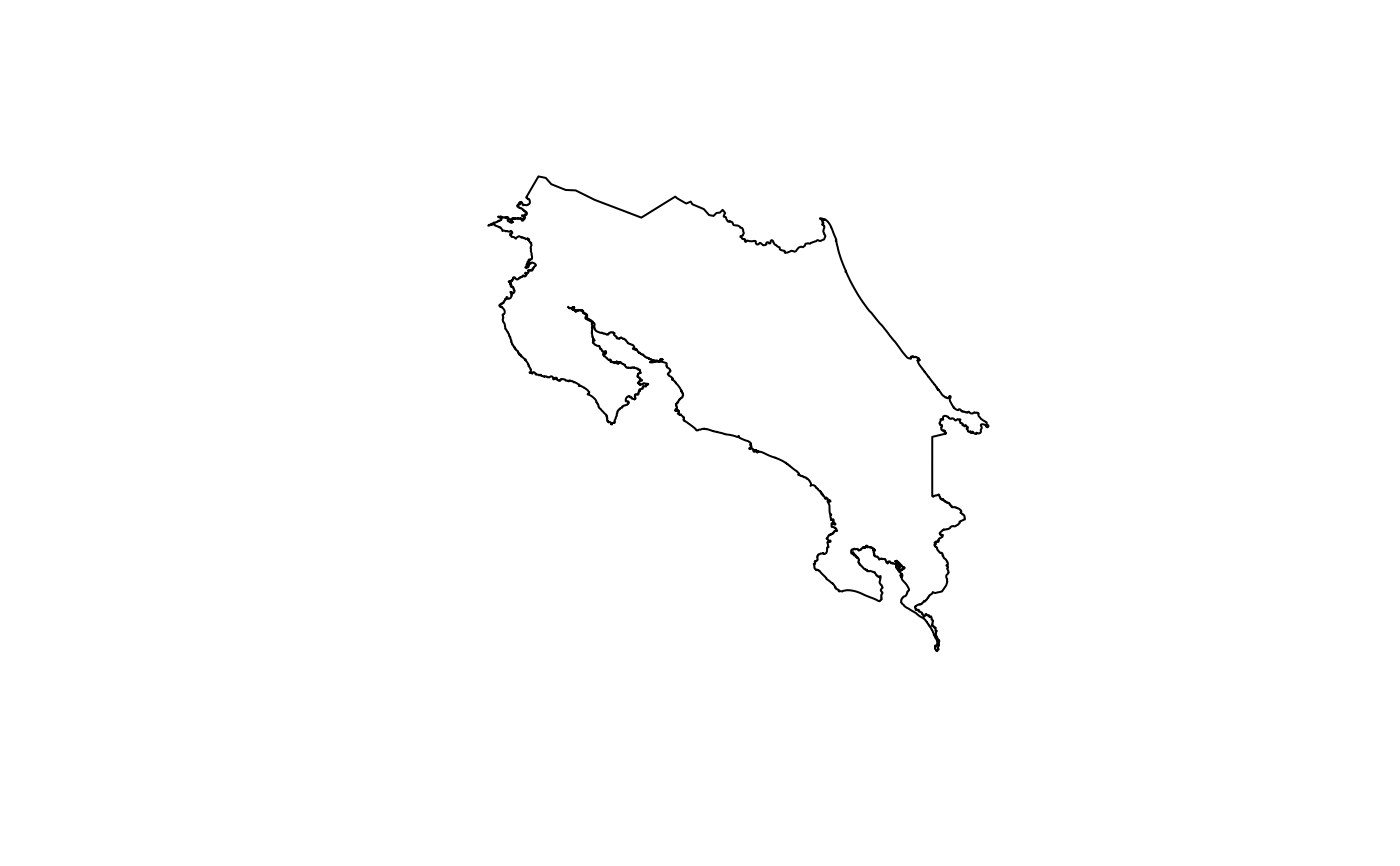
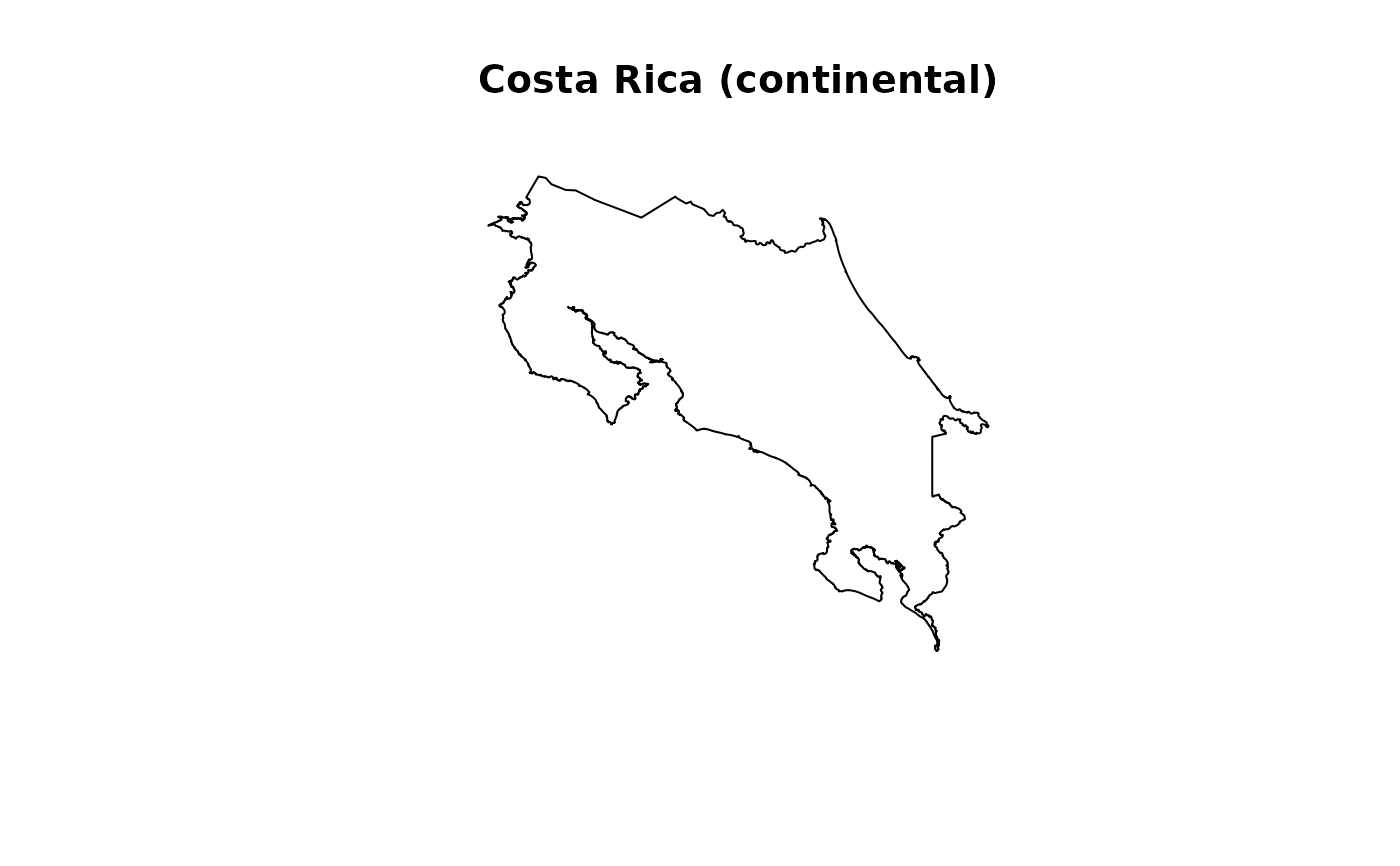
Deploying to gh-pages from @ ManuelSpinola/h3sdm@3c886d8b5e3df9cee0a471d59db960e2a45d29d4 🚀

Changed region(s): [[0.3379, 0.0624, 0.7064, 0.1247]]

diff --git a/reference/cr_outline.html b/reference/cr_outline.html
@@ -1,0 +1,137 @@
+<!DOCTYPE html>
+<!-- Generated by pkgdown: do not edit by hand --><html lang="en"><head><meta http-equiv="Content-Type" content="text/html; charset=UTF-8"><meta charset="utf-8"><meta http-equiv="X-UA-Compatible" content="IE=edge"><meta name="viewport" content="width=device-width, initial-scale=1, shrink-to-fit=no"><title>Costa Rica Full Outline (Continental + Islands) — cr_outline • h3sdm</title><script src="../deps/jquery-3.6.0/jquery-3.6.0.min.js"></script><meta name="viewport" content="width=device-width, initial-scale=1, shrink-to-fit=no"><link href="../deps/bootstrap-5.3.8/bootstrap.min.css" rel="stylesheet"><script src="../deps/bootstrap-5.3.8/bootstrap.bundle.min.js"></script><link href="../deps/Source_Sans_Pro-0.4.10/font.css" rel="stylesheet"><link href="../deps/Source_Code_Pro-0.4.10/font.css" rel="stylesheet"><link href="../deps/font-awesome-6.5.2/css/all.min.css" rel="stylesheet"><link href="../deps/font-awesome-6.5.2/css/v4-shims.min.css" rel="stylesheet"><script src="../deps/headroom-0.11.0/headroom.min.js"></script><script src="../deps/headroom-0.11.0/jQuery.headroom.min.js"></script><script src="../deps/bootstrap-toc-1.0.1/bootstrap-toc.min.js"></script><script src="../deps/clipboard.js-2.0.11/clipboard.min.js"></script><script src="../deps/search-1.0.0/autocomplete.jquery.min.js"></script><script src="../deps/search-1.0.0/fuse.min.js"></script><script src="../deps/search-1.0.0/mark.min.js"></script><!-- pkgdown --><script src="../pkgdown.js"></script><meta property="og:title" content="Costa Rica Full Outline (Continental + Islands) — cr_outline"><meta name="description" content="An sf multipolygon containing the full outline of Costa Rica,
+derived from GADM 4.1. Includes the continental landmass, the Isla del
+Coco (~550 km offshore in the Pacific Ocean), and all other minor
+oceanic islands.
+For the continental outline only (without islands), see
+cr_outline_c."><meta property="og:description" content="An sf multipolygon containing the full outline of Costa Rica,
+derived from GADM 4.1. Includes the continental landmass, the Isla del
+Coco (~550 km offshore in the Pacific Ocean), and all other minor
+oceanic islands.
+For the continental outline only (without islands), see
+cr_outline_c."></head><body>
+    <a href="#container" class="visually-hidden-focusable">Skip to content</a>
+
+
+    <nav class="navbar navbar-expand-lg fixed-top bg-none" data-bs-theme="light" aria-label="Site navigation"><div class="container">
+
+    <a class="navbar-brand me-2" href="../index.html">h3sdm</a>
+
+    <small class="nav-text text-muted me-auto" data-bs-toggle="tooltip" data-bs-placement="bottom" title="">0.1.5</small>
+
+
+    <button class="navbar-toggler" type="button" data-bs-toggle="collapse" data-bs-target="#navbar" aria-controls="navbar" aria-expanded="false" aria-label="Toggle navigation">
+      <span class="navbar-toggler-icon"></span>
+    </button>
+
+    <div id="navbar" class="collapse navbar-collapse ms-3">
+      <ul class="navbar-nav me-auto"><li class="nav-item"><a class="nav-link" href="../articles/h3sdm.html">Get started</a></li>
+<li class="active nav-item"><a class="nav-link" href="../reference/index.html">Reference</a></li>
+<li class="nav-item dropdown">
+  <button class="nav-link dropdown-toggle" type="button" id="dropdown-articles" data-bs-toggle="dropdown" aria-expanded="false" aria-haspopup="true">Articles</button>
+  <ul class="dropdown-menu" aria-labelledby="dropdown-articles"><li><a class="dropdown-item" href="../articles/multi_model_workflow.html">h3sdm workflow for multiple models</a></li>
+  </ul></li>
+<li class="nav-item"><a class="nav-link" href="../news/index.html">Changelog</a></li>
+      </ul><ul class="navbar-nav"><li class="nav-item"><form class="form-inline" role="search">
+ <input class="form-control" type="search" name="search-input" id="search-input" autocomplete="off" aria-label="Search site" placeholder="Search for" data-search-index="../search.json"></form></li>
+<li class="nav-item"><a class="external-link nav-link" href="https://github.com/ManuelSpinola/h3sdm/" aria-label="GitHub"><span class="fa fab fa-github fa-lg"></span></a></li>
+      </ul></div>
+
+
+  </div>
+</nav><div class="container template-reference-topic" id="container">
+<div class="row">
+  <main id="main" class="col-md-9"><div class="page-header">
+
+      <h1>Costa Rica Full Outline (Continental + Islands)</h1>
+      <small class="dont-index">Source: <a href="https://github.com/ManuelSpinola/h3sdm/blob/main/R/data-doc.R" class="external-link"><code>R/data-doc.R</code></a></small>
+      <div class="d-none name"><code>cr_outline.Rd</code></div>
+    </div>
+
+    <div class="ref-description section level2">
+    <p>An <code>sf</code> multipolygon containing the full outline of Costa Rica,
+derived from GADM 4.1. Includes the continental landmass, the Isla del
+Coco (~550 km offshore in the Pacific Ocean), and all other minor
+oceanic islands.</p>
+<p>For the continental outline only (without islands), see
+<code><a href="cr_outline_c.html">cr_outline_c</a></code>.</p>
+    </div>
+
+    <div class="section level2">
+    <h2 id="ref-usage">Usage<a class="anchor" aria-label="anchor" href="#ref-usage"></a></h2>
+    <div class="sourceCode"><pre class="sourceCode r"><code><span><span class="va">cr_outline</span></span></code></pre></div>
+    </div>
+
+    <div class="section level2">
+    <h2 id="format">Format<a class="anchor" aria-label="anchor" href="#format"></a></h2>
+    <p>An <code>sf</code> object with 1 feature and 1 column:</p><dl><dt>geometry</dt>
+<dd><p>MULTIPOLYGON in WGS 84 (EPSG:4326) representing the
+full national territory of Costa Rica including all islands.</p></dd>
+
+
+</dl></div>
+    <div class="section level2">
+    <h2 id="source">Source<a class="anchor" aria-label="anchor" href="#source"></a></h2>
+    <p>Global Administrative Areas (GADM) version 4.1.
+Downloaded via <code>geodata::gadm("CRI", level = 0)</code>.
+<a href="https://gadm.org" class="external-link">https://gadm.org</a></p>
+    </div>
+    <div class="section level2">
+    <h2 id="details">Details<a class="anchor" aria-label="anchor" href="#details"></a></h2>
+
+<div class="section">
+<h3 id="when-to-use-this-vs-cr-outline-c">When to use this vs cr_outline_c<a class="anchor" aria-label="anchor" href="#when-to-use-this-vs-cr-outline-c"></a></h3>
+
+
+<p>Use <code>cr_outline</code> when your analysis requires the full national
+territory. Use <code><a href="cr_outline_c.html">cr_outline_c</a></code> for mainland ecological
+analyses where oceanic islands would distort results (species distribution
+models, landscape metrics, climate extraction).</p>
+</div>
+
+<div class="section">
+<h3 id="reproducibility">Reproducibility<a class="anchor" aria-label="anchor" href="#reproducibility"></a></h3>
+
+
+<p>Generated with <code>data-raw/cr_outline.R</code>. To regenerate:</p><div class="sourceCode"><pre><code><span><span class="kw"><a href="https://rdrr.io/r/base/source.html" class="external-link">source</a></span><span class="op">(</span><span class="st">"data-raw/cr_outline.R"</span><span class="op">)</span></span></code></pre></div>
+
+</div>
+
+    </div>
+    <div class="section level2">
+    <h2 id="see-also">See also<a class="anchor" aria-label="anchor" href="#see-also"></a></h2>
+    <div class="dont-index">
+<ul><li><p><code><a href="cr_outline_c.html">cr_outline_c</a></code> – continental outline only (no islands).</p></li>
+</ul></div>
+    </div>
+
+    <div class="section level2">
+    <h2 id="ref-examples">Examples<a class="anchor" aria-label="anchor" href="#ref-examples"></a></h2>
+    <div class="sourceCode"><pre class="sourceCode r"><code><span class="r-in"><span><span class="fu"><a href="https://rdrr.io/r/utils/data.html" class="external-link">data</a></span><span class="op">(</span><span class="va">cr_outline</span><span class="op">)</span></span></span>
+<span class="r-in"><span><span class="fu"><a href="https://rspatial.github.io/terra/reference/plot.html" class="external-link">plot</a></span><span class="op">(</span><span class="fu">sf</span><span class="fu">::</span><span class="fu"><a href="https://r-spatial.github.io/sf/reference/st_geometry.html" class="external-link">st_geometry</a></span><span class="op">(</span><span class="va">cr_outline</span><span class="op">)</span>, main <span class="op">=</span> <span class="st">"Costa Rica (full territory)"</span><span class="op">)</span></span></span>
+<span class="r-plt img"><img src="cr_outline-1.png" alt="" width="700" height="433"></span>
+<span class="r-in"><span></span></span>
+<span class="r-in"><span><span class="kw">if</span> <span class="op">(</span><span class="cn">FALSE</span><span class="op">)</span> <span class="op">{</span> <span class="co"># \dontrun{</span></span></span>
+<span class="r-in"><span><span class="co"># Compare continental vs full</span></span></span>
+<span class="r-in"><span><span class="fu"><a href="https://rdrr.io/r/graphics/par.html" class="external-link">par</a></span><span class="op">(</span>mfrow <span class="op">=</span> <span class="fu"><a href="https://rdrr.io/r/base/c.html" class="external-link">c</a></span><span class="op">(</span><span class="fl">1</span>, <span class="fl">2</span><span class="op">)</span><span class="op">)</span></span></span>
+<span class="r-in"><span><span class="fu"><a href="https://rspatial.github.io/terra/reference/plot.html" class="external-link">plot</a></span><span class="op">(</span><span class="fu">sf</span><span class="fu">::</span><span class="fu"><a href="https://r-spatial.github.io/sf/reference/st_geometry.html" class="external-link">st_geometry</a></span><span class="op">(</span><span class="va">cr_outline_c</span><span class="op">)</span>, main <span class="op">=</span> <span class="st">"Continental"</span><span class="op">)</span></span></span>
+<span class="r-in"><span><span class="fu"><a href="https://rspatial.github.io/terra/reference/plot.html" class="external-link">plot</a></span><span class="op">(</span><span class="fu">sf</span><span class="fu">::</span><span class="fu"><a href="https://r-spatial.github.io/sf/reference/st_geometry.html" class="external-link">st_geometry</a></span><span class="op">(</span><span class="va">cr_outline</span><span class="op">)</span>,   main <span class="op">=</span> <span class="st">"Full territory"</span><span class="op">)</span></span></span>
+<span class="r-in"><span><span class="op">}</span> <span class="co"># }</span></span></span>
+</code></pre></div>
+    </div>
+  </main><aside class="col-md-3"><nav id="toc" aria-label="Table of contents"><h2>On this page</h2>
+    </nav></aside></div>
+
+
+   </div>
+  <footer><div class="container">
+  <div class="pkgdown-footer-left">
+  <p>Developed by Manuel Spínola.</p>
+</div>
+
+<div class="pkgdown-footer-right">
+  <p>Site built with <a href="https://pkgdown.r-lib.org/" class="external-link">pkgdown</a> 2.2.0.</p>
+</div>
+
+  </div></footer></body></html>
+

diff --git a/reference/cr_outline_c.html b/reference/cr_outline_c.html
@@ -1,5 +1,13 @@
 <!DOCTYPE html>
-<!-- Generated by pkgdown: do not edit by hand --><html lang="en"><head><meta http-equiv="Content-Type" content="text/html; charset=UTF-8"><meta charset="utf-8"><meta http-equiv="X-UA-Compatible" content="IE=edge"><meta name="viewport" content="width=device-width, initial-scale=1, shrink-to-fit=no"><title>Costa Rica Continental Outline — cr_outline_c • h3sdm</title><script src="../deps/jquery-3.6.0/jquery-3.6.0.min.js"></script><meta name="viewport" content="width=device-width, initial-scale=1, shrink-to-fit=no"><link href="../deps/bootstrap-5.3.8/bootstrap.min.css" rel="stylesheet"><script src="../deps/bootstrap-5.3.8/bootstrap.bundle.min.js"></script><link href="../deps/Source_Sans_Pro-0.4.10/font.css" rel="stylesheet"><link href="../deps/Source_Code_Pro-0.4.10/font.css" rel="stylesheet"><link href="../deps/font-awesome-6.5.2/css/all.min.css" rel="stylesheet"><link href="../deps/font-awesome-6.5.2/css/v4-shims.min.css" rel="stylesheet"><script src="../deps/headroom-0.11.0/headroom.min.js"></script><script src="../deps/headroom-0.11.0/jQuery.headroom.min.js"></script><script src="../deps/bootstrap-toc-1.0.1/bootstrap-toc.min.js"></script><script src="../deps/clipboard.js-2.0.11/clipboard.min.js"></script><script src="../deps/search-1.0.0/autocomplete.jquery.min.js"></script><script src="../deps/search-1.0.0/fuse.min.js"></script><script src="../deps/search-1.0.0/mark.min.js"></script><!-- pkgdown --><script src="../pkgdown.js"></script><meta property="og:title" content="Costa Rica Continental Outline — cr_outline_c"><meta name="description" content="A simplified outline of Costa Rica as an sf object."><meta property="og:description" content="A simplified outline of Costa Rica as an sf object."></head><body>
+<!-- Generated by pkgdown: do not edit by hand --><html lang="en"><head><meta http-equiv="Content-Type" content="text/html; charset=UTF-8"><meta charset="utf-8"><meta http-equiv="X-UA-Compatible" content="IE=edge"><meta name="viewport" content="width=device-width, initial-scale=1, shrink-to-fit=no"><title>Costa Rica Continental Outline — cr_outline_c • h3sdm</title><script src="../deps/jquery-3.6.0/jquery-3.6.0.min.js"></script><meta name="viewport" content="width=device-width, initial-scale=1, shrink-to-fit=no"><link href="../deps/bootstrap-5.3.8/bootstrap.min.css" rel="stylesheet"><script src="../deps/bootstrap-5.3.8/bootstrap.bundle.min.js"></script><link href="../deps/Source_Sans_Pro-0.4.10/font.css" rel="stylesheet"><link href="../deps/Source_Code_Pro-0.4.10/font.css" rel="stylesheet"><link href="../deps/font-awesome-6.5.2/css/all.min.css" rel="stylesheet"><link href="../deps/font-awesome-6.5.2/css/v4-shims.min.css" rel="stylesheet"><script src="../deps/headroom-0.11.0/headroom.min.js"></script><script src="../deps/headroom-0.11.0/jQuery.headroom.min.js"></script><script src="../deps/bootstrap-toc-1.0.1/bootstrap-toc.min.js"></script><script src="../deps/clipboard.js-2.0.11/clipboard.min.js"></script><script src="../deps/search-1.0.0/autocomplete.jquery.min.js"></script><script src="../deps/search-1.0.0/fuse.min.js"></script><script src="../deps/search-1.0.0/mark.min.js"></script><!-- pkgdown --><script src="../pkgdown.js"></script><meta property="og:title" content="Costa Rica Continental Outline — cr_outline_c"><meta name="description" content="An sf polygon containing the continental outline of Costa Rica,
+derived from GADM 4.1. The Isla del Coco and all other minor oceanic
+islands have been removed, retaining only the largest polygon
+(the continental landmass).
+For the full outline including all islands, see cr_outline."><meta property="og:description" content="An sf polygon containing the continental outline of Costa Rica,
+derived from GADM 4.1. The Isla del Coco and all other minor oceanic
+islands have been removed, retaining only the largest polygon
+(the continental landmass).
+For the full outline including all islands, see cr_outline."></head><body>
     <a href="#container" class="visually-hidden-focusable">Skip to content</a>
 
 
@@ -39,7 +47,11 @@
     </div>
 
     <div class="ref-description section level2">
-    <p>A simplified outline of Costa Rica as an <code>sf</code> object.</p>
+    <p>An <code>sf</code> polygon containing the continental outline of Costa Rica,
+derived from GADM 4.1. The Isla del Coco and all other minor oceanic
+islands have been removed, retaining only the largest polygon
+(the continental landmass).</p>
+<p>For the full outline including all islands, see <code><a href="cr_outline.html">cr_outline</a></code>.</p>
     </div>
 
     <div class="section level2">
@@ -49,18 +61,52 @@
 
     <div class="section level2">
     <h2 id="format">Format<a class="anchor" aria-label="anchor" href="#format"></a></h2>
-    <p>An <code>sf</code> object containing polygon geometry of Costa Rica.</p>
-    </div>
+    <p>An <code>sf</code> object with 1 feature and 1 column:</p><dl><dt>geometry</dt>
+<dd><p>POLYGON in WGS 84 (EPSG:4326) with 30,261 vertices,
+representing the continental outline of Costa Rica.</p></dd>
+
+
+</dl></div>
     <div class="section level2">
     <h2 id="source">Source<a class="anchor" aria-label="anchor" href="#source"></a></h2>
-    <p>Adapted from publicly available geographic data.</p>
+    <p>Global Administrative Areas (GADM) version 4.1.
+Downloaded via <code>geodata::gadm("CRI", level = 0)</code>.
+<a href="https://gadm.org" class="external-link">https://gadm.org</a></p>
+    </div>
+    <div class="section level2">
+    <h2 id="details">Details<a class="anchor" aria-label="anchor" href="#details"></a></h2>
+
+<div class="section">
+<h3 id="island-removal">Island removal<a class="anchor" aria-label="anchor" href="#island-removal"></a></h3>
+
+
+<p>Costa Rica includes the Isla del Coco (~550 km offshore in the Pacific),
+which is excluded here. The continental polygon is obtained by casting the
+GADM multipolygon to individual polygons and retaining the one with the
+largest area. For analyses requiring all national territory use
+<code><a href="cr_outline.html">cr_outline</a></code>.</p>
+</div>
+
+<div class="section">
+<h3 id="reproducibility">Reproducibility<a class="anchor" aria-label="anchor" href="#reproducibility"></a></h3>
+
+
+<p>Generated with <code>data-raw/cr_outline.R</code>. To regenerate:</p><div class="sourceCode"><pre><code><span><span class="kw"><a href="https://rdrr.io/r/base/source.html" class="external-link">source</a></span><span class="op">(</span><span class="st">"data-raw/cr_outline.R"</span><span class="op">)</span></span></code></pre></div>
+
+</div>
+
+    </div>
+    <div class="section level2">
+    <h2 id="see-also">See also<a class="anchor" aria-label="anchor" href="#see-also"></a></h2>
+    <div class="dont-index">
+<ul><li><p><code><a href="cr_outline.html">cr_outline</a></code> – full outline including all islands.</p></li>
+</ul></div>
     </div>
 
     <div class="section level2">
     <h2 id="ref-examples">Examples<a class="anchor" aria-label="anchor" href="#ref-examples"></a></h2>
-    <div class="sourceCode"><pre class="sourceCode r"><code><span class="r-in"><span><span class="kw"><a href="https://rdrr.io/r/base/library.html" class="external-link">library</a></span><span class="op">(</span><span class="va"><a href="https://r-spatial.github.io/sf/" class="external-link">sf</a></span><span class="op">)</span></span></span>
-<span class="r-msg co"><span class="r-pr">#&gt;</span> Linking to GEOS 3.12.1, GDAL 3.8.4, PROJ 9.4.0; sf_use_s2() is TRUE</span>
-<span class="r-in"><span><span class="fu"><a href="https://rspatial.github.io/terra/reference/plot.html" class="external-link">plot</a></span><span class="op">(</span><span class="va">cr_outline_c</span><span class="op">)</span></span></span>
+    <div class="sourceCode"><pre class="sourceCode r"><code><span class="r-in"><span><span class="fu"><a href="https://rdrr.io/r/utils/data.html" class="external-link">data</a></span><span class="op">(</span><span class="va">cr_outline_c</span><span class="op">)</span></span></span>
+<span class="r-in"><span><span class="fu"><a href="https://rspatial.github.io/terra/reference/plot.html" class="external-link">plot</a></span><span class="op">(</span><span class="fu">sf</span><span class="fu">::</span><span class="fu"><a href="https://r-spatial.github.io/sf/reference/st_geometry.html" class="external-link">st_geometry</a></span><span class="op">(</span><span class="va">cr_outline_c</span><span class="op">)</span>, main <span class="op">=</span> <span class="st">"Costa Rica (continental)"</span><span class="op">)</span></span></span>
 <span class="r-plt img"><img src="cr_outline_c-1.png" alt="" width="700" height="433"></span>
 </code></pre></div>
     </div>

diff --git a/reference/index.html b/reference/index.html
@@ -62,6 +62,13 @@
 
         <dt>
 
+          <code><a href="cr_outline.html">cr_outline</a></code>
+
+        </dt>
+        <dd>Costa Rica Full Outline (Continental + Islands)</dd>
+
+        <dt>
+
           <code><a href="cr_outline_c.html">cr_outline_c</a></code>
 
         </dt>

diff --git a/reference/h3sdm_calculate_it_metrics.html b/reference/h3sdm_calculate_it_metrics.html
@@ -86,6 +86,7 @@ landscape patterns. <a href="https://doi.org/10.1007/s10980-019-00830-x" class="
     <h2 id="ref-examples">Examples<a class="anchor" aria-label="anchor" href="#ref-examples"></a></h2>
     <div class="sourceCode"><pre class="sourceCode r"><code><span class="r-in"><span><span class="co"># \donttest{</span></span></span>
 <span class="r-in"><span>  <span class="kw"><a href="https://rdrr.io/r/base/library.html" class="external-link">library</a></span><span class="op">(</span><span class="va"><a href="https://r-spatial.github.io/sf/" class="external-link">sf</a></span><span class="op">)</span></span></span>
+<span class="r-msg co"><span class="r-pr">#&gt;</span> Linking to GEOS 3.12.1, GDAL 3.8.4, PROJ 9.4.0; sf_use_s2() is TRUE</span>
 <span class="r-in"><span>  <span class="kw"><a href="https://rdrr.io/r/base/library.html" class="external-link">library</a></span><span class="op">(</span><span class="va"><a href="https://rspatial.org/" class="external-link">terra</a></span><span class="op">)</span></span></span>
 <span class="r-in"><span></span></span>
 <span class="r-in"><span>  <span class="co"># Create a categorical SpatRaster (land-cover map)</span></span></span>

diff --git a/reference/cr_outline.md b/reference/cr_outline.md
@@ -1,0 +1,66 @@
+# Costa Rica Full Outline (Continental + Islands)
+
+An `sf` multipolygon containing the full outline of Costa Rica, derived
+from GADM 4.1. Includes the continental landmass, the Isla del Coco
+(~550 km offshore in the Pacific Ocean), and all other minor oceanic
+islands.
+
+For the continental outline only (without islands), see
+[`cr_outline_c`](https://manuelspinola.github.io/h3sdm/reference/cr_outline_c.md).
+
+## Usage
+
+``` r
+cr_outline
+```
+
+## Format
+
+An `sf` object with 1 feature and 1 column:
+
+- geometry:
+
+  MULTIPOLYGON in WGS 84 (EPSG:4326) representing the full national
+  territory of Costa Rica including all islands.
+
+## Source
+
+Global Administrative Areas (GADM) version 4.1. Downloaded via
+`geodata::gadm("CRI", level = 0)`. <https://gadm.org>
+
+## Details
+
+### When to use this vs cr_outline_c
+
+Use `cr_outline` when your analysis requires the full national
+territory. Use
+[`cr_outline_c`](https://manuelspinola.github.io/h3sdm/reference/cr_outline_c.md)
+for mainland ecological analyses where oceanic islands would distort
+results (species distribution models, landscape metrics, climate
+extraction).
+
+### Reproducibility
+
+Generated with `data-raw/cr_outline.R`. To regenerate:
+
+    source("data-raw/cr_outline.R")
+
+## See also
+
+- [`cr_outline_c`](https://manuelspinola.github.io/h3sdm/reference/cr_outline_c.md)
+  – continental outline only (no islands).
+
+## Examples
+
+``` r
+data(cr_outline)
+plot(sf::st_geometry(cr_outline), main = "Costa Rica (full territory)")
+
+
+if (FALSE) { # \dontrun{
+# Compare continental vs full
+par(mfrow = c(1, 2))
+plot(sf::st_geometry(cr_outline_c), main = "Continental")
+plot(sf::st_geometry(cr_outline),   main = "Full territory")
+} # }
+```

diff --git a/reference/cr_outline_c.md b/reference/cr_outline_c.md
@@ -1,6 +1,12 @@
 # Costa Rica Continental Outline
 
-A simplified outline of Costa Rica as an `sf` object.
+An `sf` polygon containing the continental outline of Costa Rica,
+derived from GADM 4.1. The Isla del Coco and all other minor oceanic
+islands have been removed, retaining only the largest polygon (the
+continental landmass).
+
+For the full outline including all islands, see
+[`cr_outline`](https://manuelspinola.github.io/h3sdm/reference/cr_outline.md).
 
 ## Usage
 
@@ -10,16 +16,42 @@ cr_outline_c
 
 ## Format
 
-An `sf` object containing polygon geometry of Costa Rica.
+An `sf` object with 1 feature and 1 column:
+
+- geometry:
+
+  POLYGON in WGS 84 (EPSG:4326) with 30,261 vertices, representing the
+  continental outline of Costa Rica.
 
 ## Source
 
-Adapted from publicly available geographic data.
+Global Administrative Areas (GADM) version 4.1. Downloaded via
+`geodata::gadm("CRI", level = 0)`. <https://gadm.org>
+
+## Details
+
+### Island removal
+
+Costa Rica includes the Isla del Coco (~550 km offshore in the Pacific),
+which is excluded here. The continental polygon is obtained by casting
+the GADM multipolygon to individual polygons and retaining the one with
+the largest area. For analyses requiring all national territory use
+[`cr_outline`](https://manuelspinola.github.io/h3sdm/reference/cr_outline.md).
+
+### Reproducibility
+
+Generated with `data-raw/cr_outline.R`. To regenerate:
+
+    source("data-raw/cr_outline.R")
+
+## See also
+
+- [`cr_outline`](https://manuelspinola.github.io/h3sdm/reference/cr_outline.md)
+  – full outline including all islands.
 
 ## Examples
 
 ``` r
-library(sf)
-#> Linking to GEOS 3.12.1, GDAL 3.8.4, PROJ 9.4.0; sf_use_s2() is TRUE
-plot(cr_outline_c)
+data(cr_outline_c)
+plot(sf::st_geometry(cr_outline_c), main = "Costa Rica (continental)")
 ```

diff --git a/reference/index.md b/reference/index.md
@@ -6,6 +6,8 @@
   : Current bioclimatic raster
 - [`bioclim_future`](https://manuelspinola.github.io/h3sdm/reference/bioclim_future.md)
   : Future bioclimatic raster
+- [`cr_outline`](https://manuelspinola.github.io/h3sdm/reference/cr_outline.md)
+  : Costa Rica Full Outline (Continental + Islands)
 - [`cr_outline_c`](https://manuelspinola.github.io/h3sdm/reference/cr_outline_c.md)
   : Costa Rica Continental Outline
 - [`h3sdm_aoa()`](https://manuelspinola.github.io/h3sdm/reference/h3sdm_aoa.md)

diff --git a/reference/h3sdm_calculate_it_metrics.md b/reference/h3sdm_calculate_it_metrics.md
@@ -46,6 +46,7 @@ for landscape patterns.
 ``` r
 # \donttest{
   library(sf)
+#> Linking to GEOS 3.12.1, GDAL 3.8.4, PROJ 9.4.0; sf_use_s2() is TRUE
   library(terra)
 
   # Create a categorical SpatRaster (land-cover map)